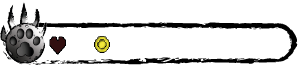
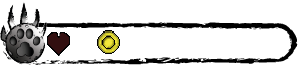
Ui resized

Changed region(s): [[0.302, 0.4615, 0.4228, 0.8308], [0.151, 0.4923, 0.2416, 0.8615]]

diff --git a/Projet Cat.html b/Projet Cat.html
@@ -50,11 +50,10 @@ src="//cdn.jsdelivr.net/npm/phaser@3.55.2/dist/phaser.js"></script>
         this.load.image("PorteJaune", "Assets/Portes/PorteJ.png");
         this.load.image("PorteVerte", "Assets/Portes/PorteV.png");
         this.load.image("PorteBleu", "Assets/Portes/PorteB.png");
-        
-
         this.load.image("PorteRougeBleuJaune", "Assets/Portes/PorteRBJ.png");
         this.load.image("PorteRougeBleuJauneVerte", "Assets/Portes/PorteRBJV.png");
 
+        this.load.image("PowerUpGate", "Assets/SpriteBpoxVide.png")
 
         this.load.image("UI","Assets/UI1.1.png");
         this.load.image("barrieres", "Assets/Barrieres.png");
@@ -433,6 +432,11 @@ src="//cdn.jsdelivr.net/npm/phaser@3.55.2/dist/phaser.js"></script>
         this.YellowCardDeux= this.YellowCard.create(368, 1264, 'SpriteYellowCard');
 
 
+      
+        
+        
+
+
                         //**********************************************************        PORTES      *********************************************************
 
                         this.PorteRouge = this.physics.add.sprite(1072, 288, 'PorteRouge').setImmovable(true);
@@ -497,9 +501,12 @@ src="//cdn.jsdelivr.net/npm/phaser@3.55.2/dist/phaser.js"></script>
                         this.PorteRougeBleuJauneVerteTrois.setFlipX(true);
                         this.PorteRougeBleuJauneVerteTrois.body.allowGravity = false;
 
+                        this.PowerUpGate= this.physics.add.group({ allowGravity : false, collideWorldBounds: true});
+                        this.PowerUpGate= this.physics.add.sprite(64, 300,'PowerUpGate').setImmovable(true);
+                        this.PowerUpGate.disableBody(true, true)
         
 
-        //***********************************************************************           Limite          *********************************************************************************
+        //***********************************************************************          SPAWN         *********************************************************************************
         Plateformes.setCollisionByProperty({ estSolide: true });
         
         this.player = this.physics.add.sprite(0,300, 'perso').setSize(20,20).setOffset(5,12); //SPAWN LEVEL 1 0.300  : LEVEL 2 1552, 384 LEVEL 3 
@@ -509,7 +516,7 @@ src="//cdn.jsdelivr.net/npm/phaser@3.55.2/dist/phaser.js"></script>
         //***********************************************        Entrer en contact       *******************************************************************
 
 
-        //this.physics.add.overlap(this.player, this.fire, this.JePerdsDeLaVieOhMonDieu, null, this)
+        this.physics.add.overlap(this.player, this.fire, this.JePerdsDeLaVieOhMonDieu, null, this)
         
         this.physics.add.overlap(this.player, this.RedCard, this.JePossedeUneTresBelleCarteRouge, null, this)
         this.physics.add.overlap(this.player, this.YellowCard, this.JePossedeUneTresBelleCarteJaune, null, this);
@@ -519,7 +526,8 @@ src="//cdn.jsdelivr.net/npm/phaser@3.55.2/dist/phaser.js"></script>
 
         this.physics.add.overlap(this.player, this.coin, this.JeRecolteMesPiecesDeMonnaie, null, this);
         this.physics.add.overlap(this.player, this.HealthPotion, this.MiamMiamLesBonnesCroquettes, null, this);
-
+        
+        this.physics.add.overlap(this.player,this.PowerUpGate, this.JeTrouveMonPremierPouvoir,null,this);
 
 
 
@@ -594,6 +602,12 @@ src="//cdn.jsdelivr.net/npm/phaser@3.55.2/dist/phaser.js"></script>
             frameRate: 10,
             repeat: -1
         })
+        this.anims.create({
+            key: 'BlueCardForUi',
+            frames: this.anims.generateFrameNumbers('SpriteBlueCard', {start:0,end:0}),
+            frameRate: 10,
+            repeat: 0
+        })
 
         this.anims.create({
             key: 'SpriteGreenCard',
@@ -615,6 +629,12 @@ src="//cdn.jsdelivr.net/npm/phaser@3.55.2/dist/phaser.js"></script>
             frames: this.anims.generateFrameNumbers('SpriteRedCard', {start:0,end:24}),
             frameRate: 10,
             repeat: -1
+        })
+        this.anims.create({
+            key: 'RedCardForUi',
+            frames: this.anims.generateFrameNumbers('SpriteRedCard', {start:0,end:0}),
+            frameRate: 10,
+            repeat: 0
         })
 
         this.anims.create({
@@ -653,12 +673,12 @@ src="//cdn.jsdelivr.net/npm/phaser@3.55.2/dist/phaser.js"></script>
         });
 
         this.anims.create({
-        key: 'onWallL',
+        key: 'OnWallL',
         frames: [ { key: 'perso', frame: 0 } ],
         frameRate: 10
         });
         this.anims.create({
-        key: 'onWallR',
+        key: 'OnWallR',
         frames: [ { key: 'perso', frame: 16 } ],
         frameRate: 10
         });
@@ -686,7 +706,7 @@ src="//cdn.jsdelivr.net/npm/phaser@3.55.2/dist/phaser.js"></script>
 
         this.add.image(800,800,"barrieres");
         this.add.image(this.player.x+450,230, "UI").setScale(1).setScrollFactor(0);
-    
+        
     }
         //***********************************************        PERDRE DE LA VIE       *******************************************************************
 
@@ -723,6 +743,7 @@ src="//cdn.jsdelivr.net/npm/phaser@3.55.2/dist/phaser.js"></script>
     JePossedeUneTresBelleCarteVerte(player, GreenCard){
         GreenCard.disableBody(true, true);
         this.CarteVerteDeLaMortQuiTue = true;
+        
         console.log(this.CarteVerteDeLaMortQuiTue)
         console.log("Miaow that's a green card !!!");
     }
@@ -738,8 +759,11 @@ src="//cdn.jsdelivr.net/npm/phaser@3.55.2/dist/phaser.js"></script>
         this.mespointsdevie += 1; 
         console.log("Hp + 1")
     }
-    
-
+    JeTrouveMonPremierPouvoir(player,PowerUpGate){
+        this.PowerUpGate = true
+        console.log("Power UP !!!!")
+    }
+        
     
 
     
@@ -748,16 +772,6 @@ src="//cdn.jsdelivr.net/npm/phaser@3.55.2/dist/phaser.js"></script>
 
         this.nombreargentText.setText(this.nombreargent);
         this.mespointsdevieText.setText(this.mespointsdevie);
-
-        
-
-        //***************** TEST **************************
-        //this.scoreText.x = this.player.body.position.x-80;
-        //this.scoreText.y = this.player.body.position.y+115;
-//
-        //this.hpText.x = this.player.body.position.x-80;
-        //this.hpText.y = this.player.body.position.y-130;
-
 
 
         // ***************************************************************** ON FAIT DISPARAITRE LES PORTES SI LES CONDITIONS SONT REMPLIES ***********************************************
@@ -873,6 +887,12 @@ src="//cdn.jsdelivr.net/npm/phaser@3.55.2/dist/phaser.js"></script>
             this.PorteRougeBleuJauneVerteTrois.disableBody(true, true)
             console.log("Miaow we are going to make hiiiiissss-tory");
         }
+
+        if (this.player.x >= 880 && this.player.y <= 832 && this.player.x <= 1008 && this.player.y >= 736 && this.CarteRougeDeLaMortQuiTue == true && this.CarteBleuDeLaMortQuiTue == true && this.CarteJauneDeLaMortQuiTue == true && this.CarteVerteDeLaMortQuiTue == true) {
+            this.PorteRougeBleuJauneVerteTrois.disableBody(true, true)
+            console.log("I made It");
+        }
+        
 // ************************************************************         Groupe d'animation          *******************************************************************     
 
     // Animation - Feu
@@ -915,7 +935,10 @@ src="//cdn.jsdelivr.net/npm/phaser@3.55.2/dist/phaser.js"></script>
 
         if (this.gameOver == true){return;}
         
-       
+        if(this.PowerUpGate==true && this.clavier.SHIFT.isDown && this.clavier.D.isDown){
+            this.player.setVelocityX(400);
+            console.log("Im performing a dash !!")
+        }
         if (this.clavier.Q.isDown && !this.onWallGauche && ! this.walljump){ //si la touche gauche est appuyée
             this.player.setVelocityX(-160); //alors vitesse négative en X
             this.player.anims.play('left', true); //et animation => gauche
@@ -1004,10 +1027,11 @@ src="//cdn.jsdelivr.net/npm/phaser@3.55.2/dist/phaser.js"></script>
         if(this.player.body.blocked.right && !this.player.body.blocked.down){
         
             this.onWallDroit = true;
+            this.player.anims.play('OnWallR', true)
         }
         if(this.player.body.blocked.left && !this.player.body.blocked.down){
             this.onWallGauche = true;
-
+            this.player.anims.play('OnWallL', true)
         }
         }
     }
